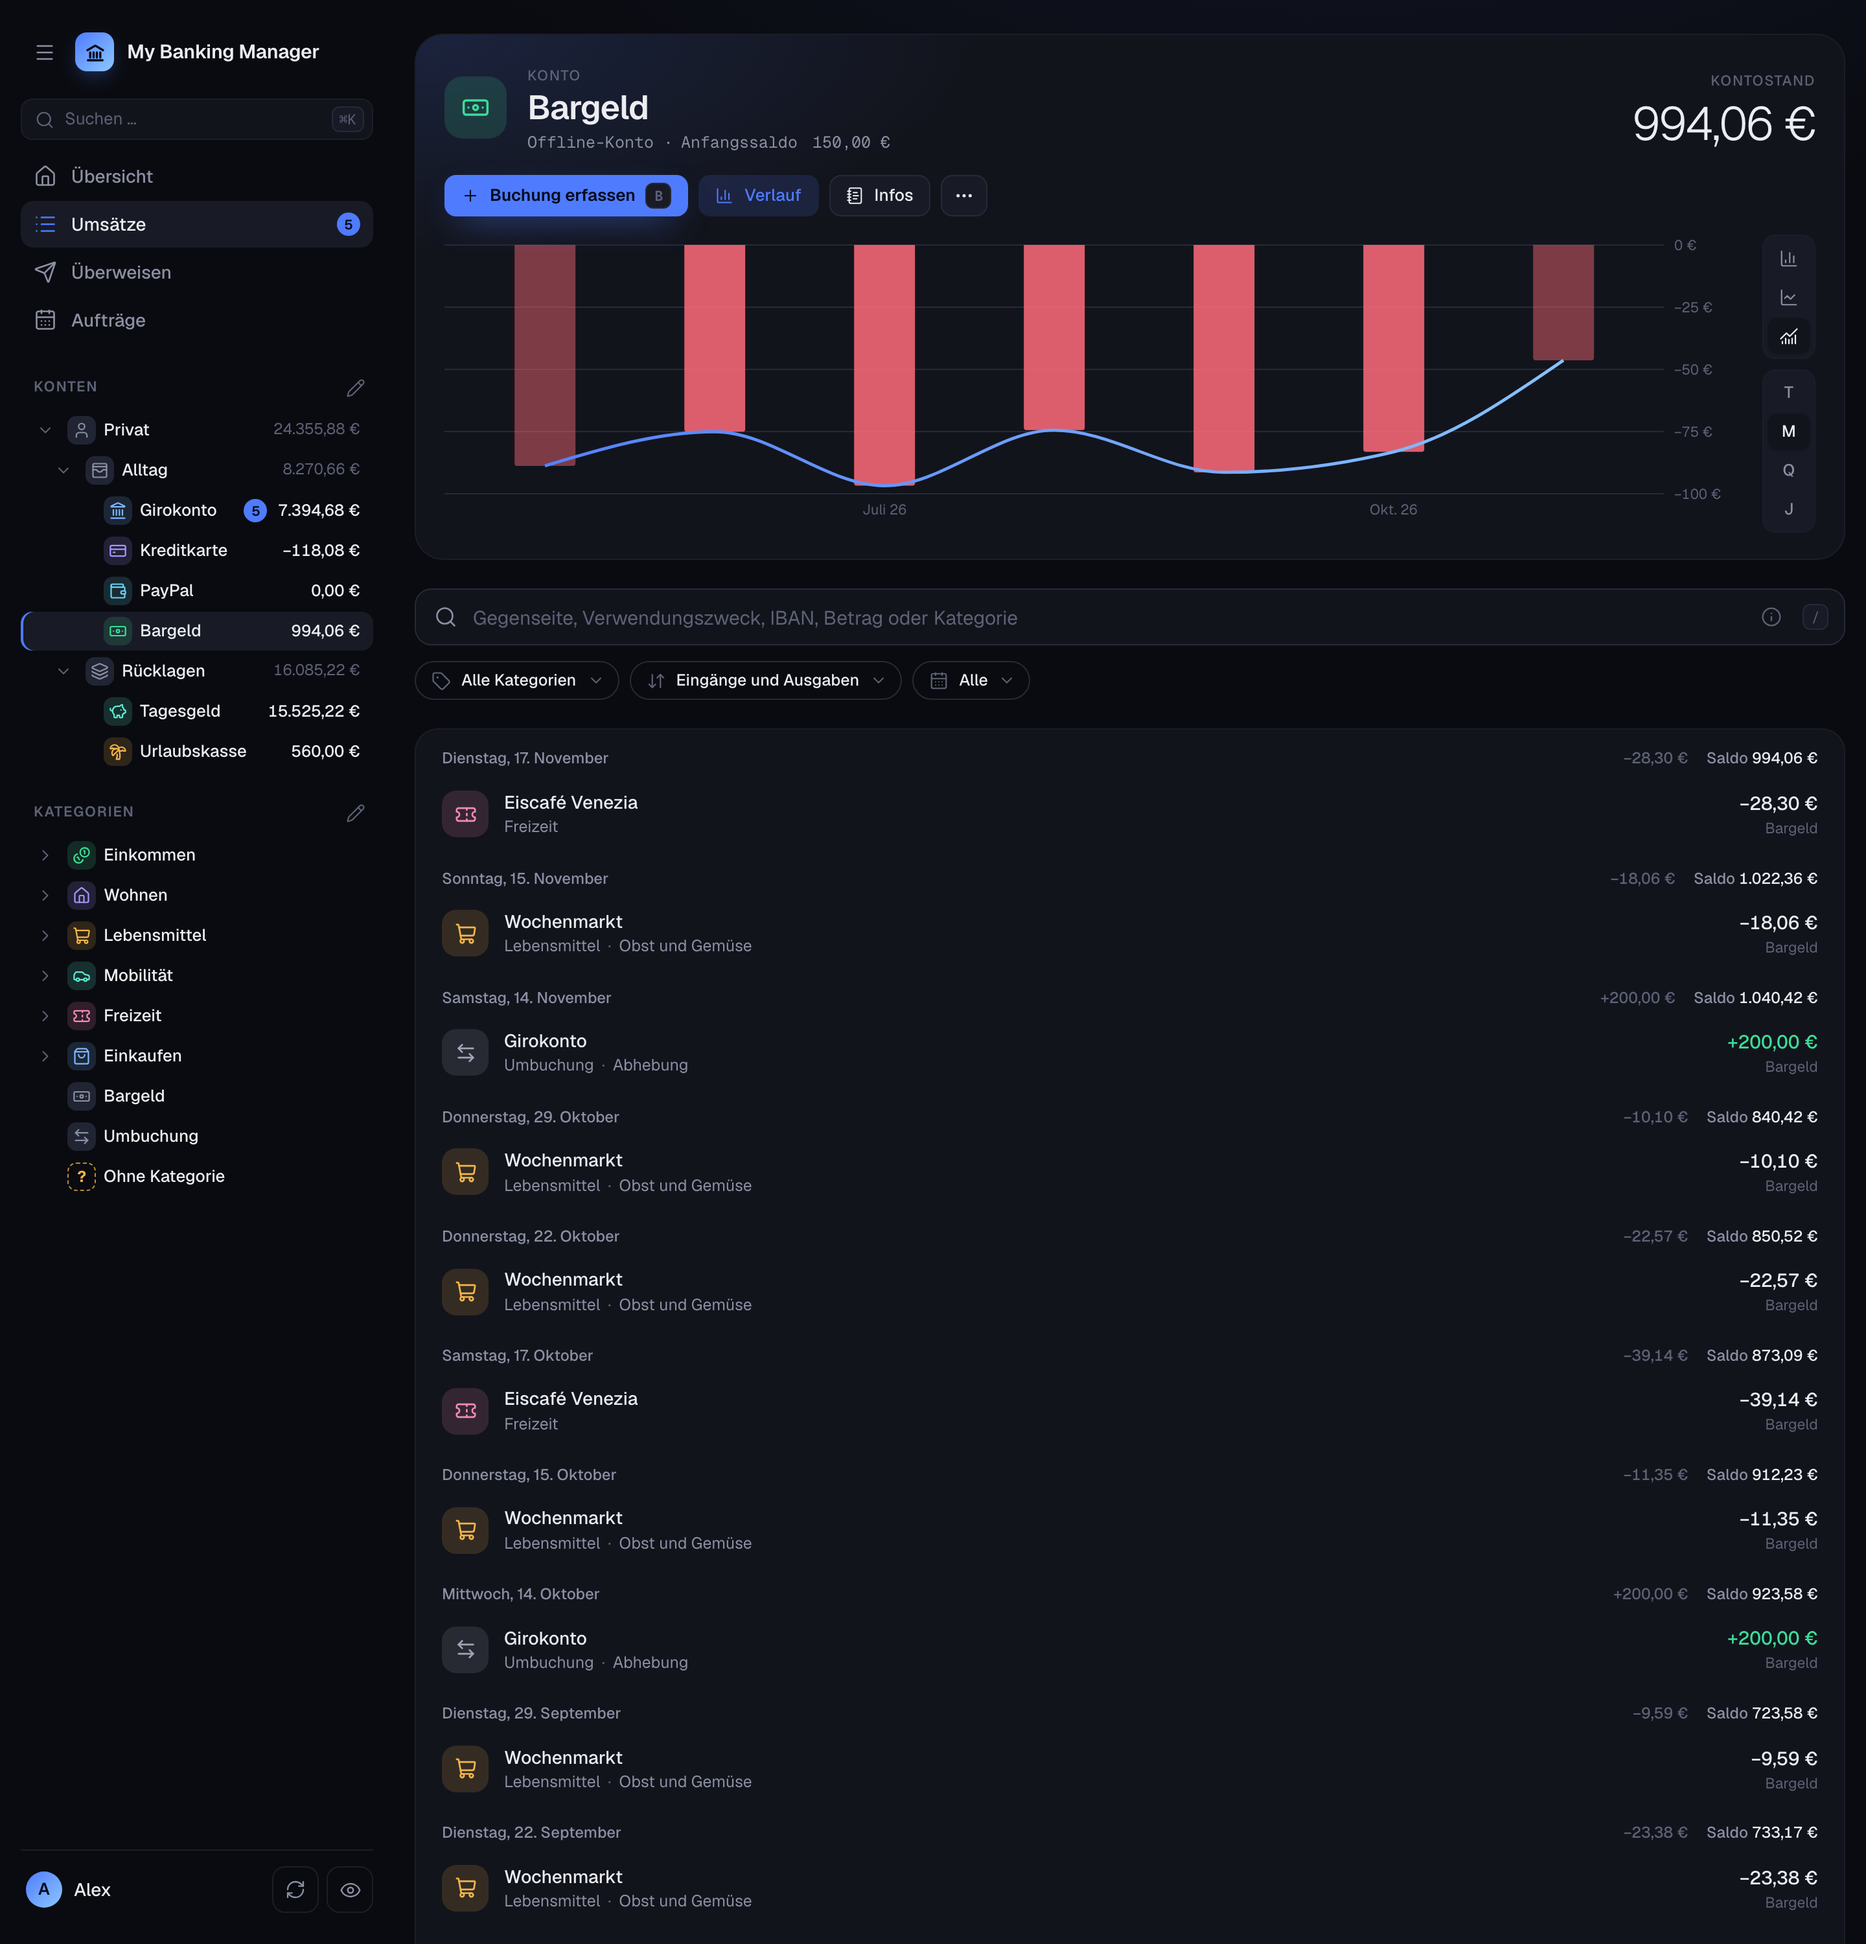
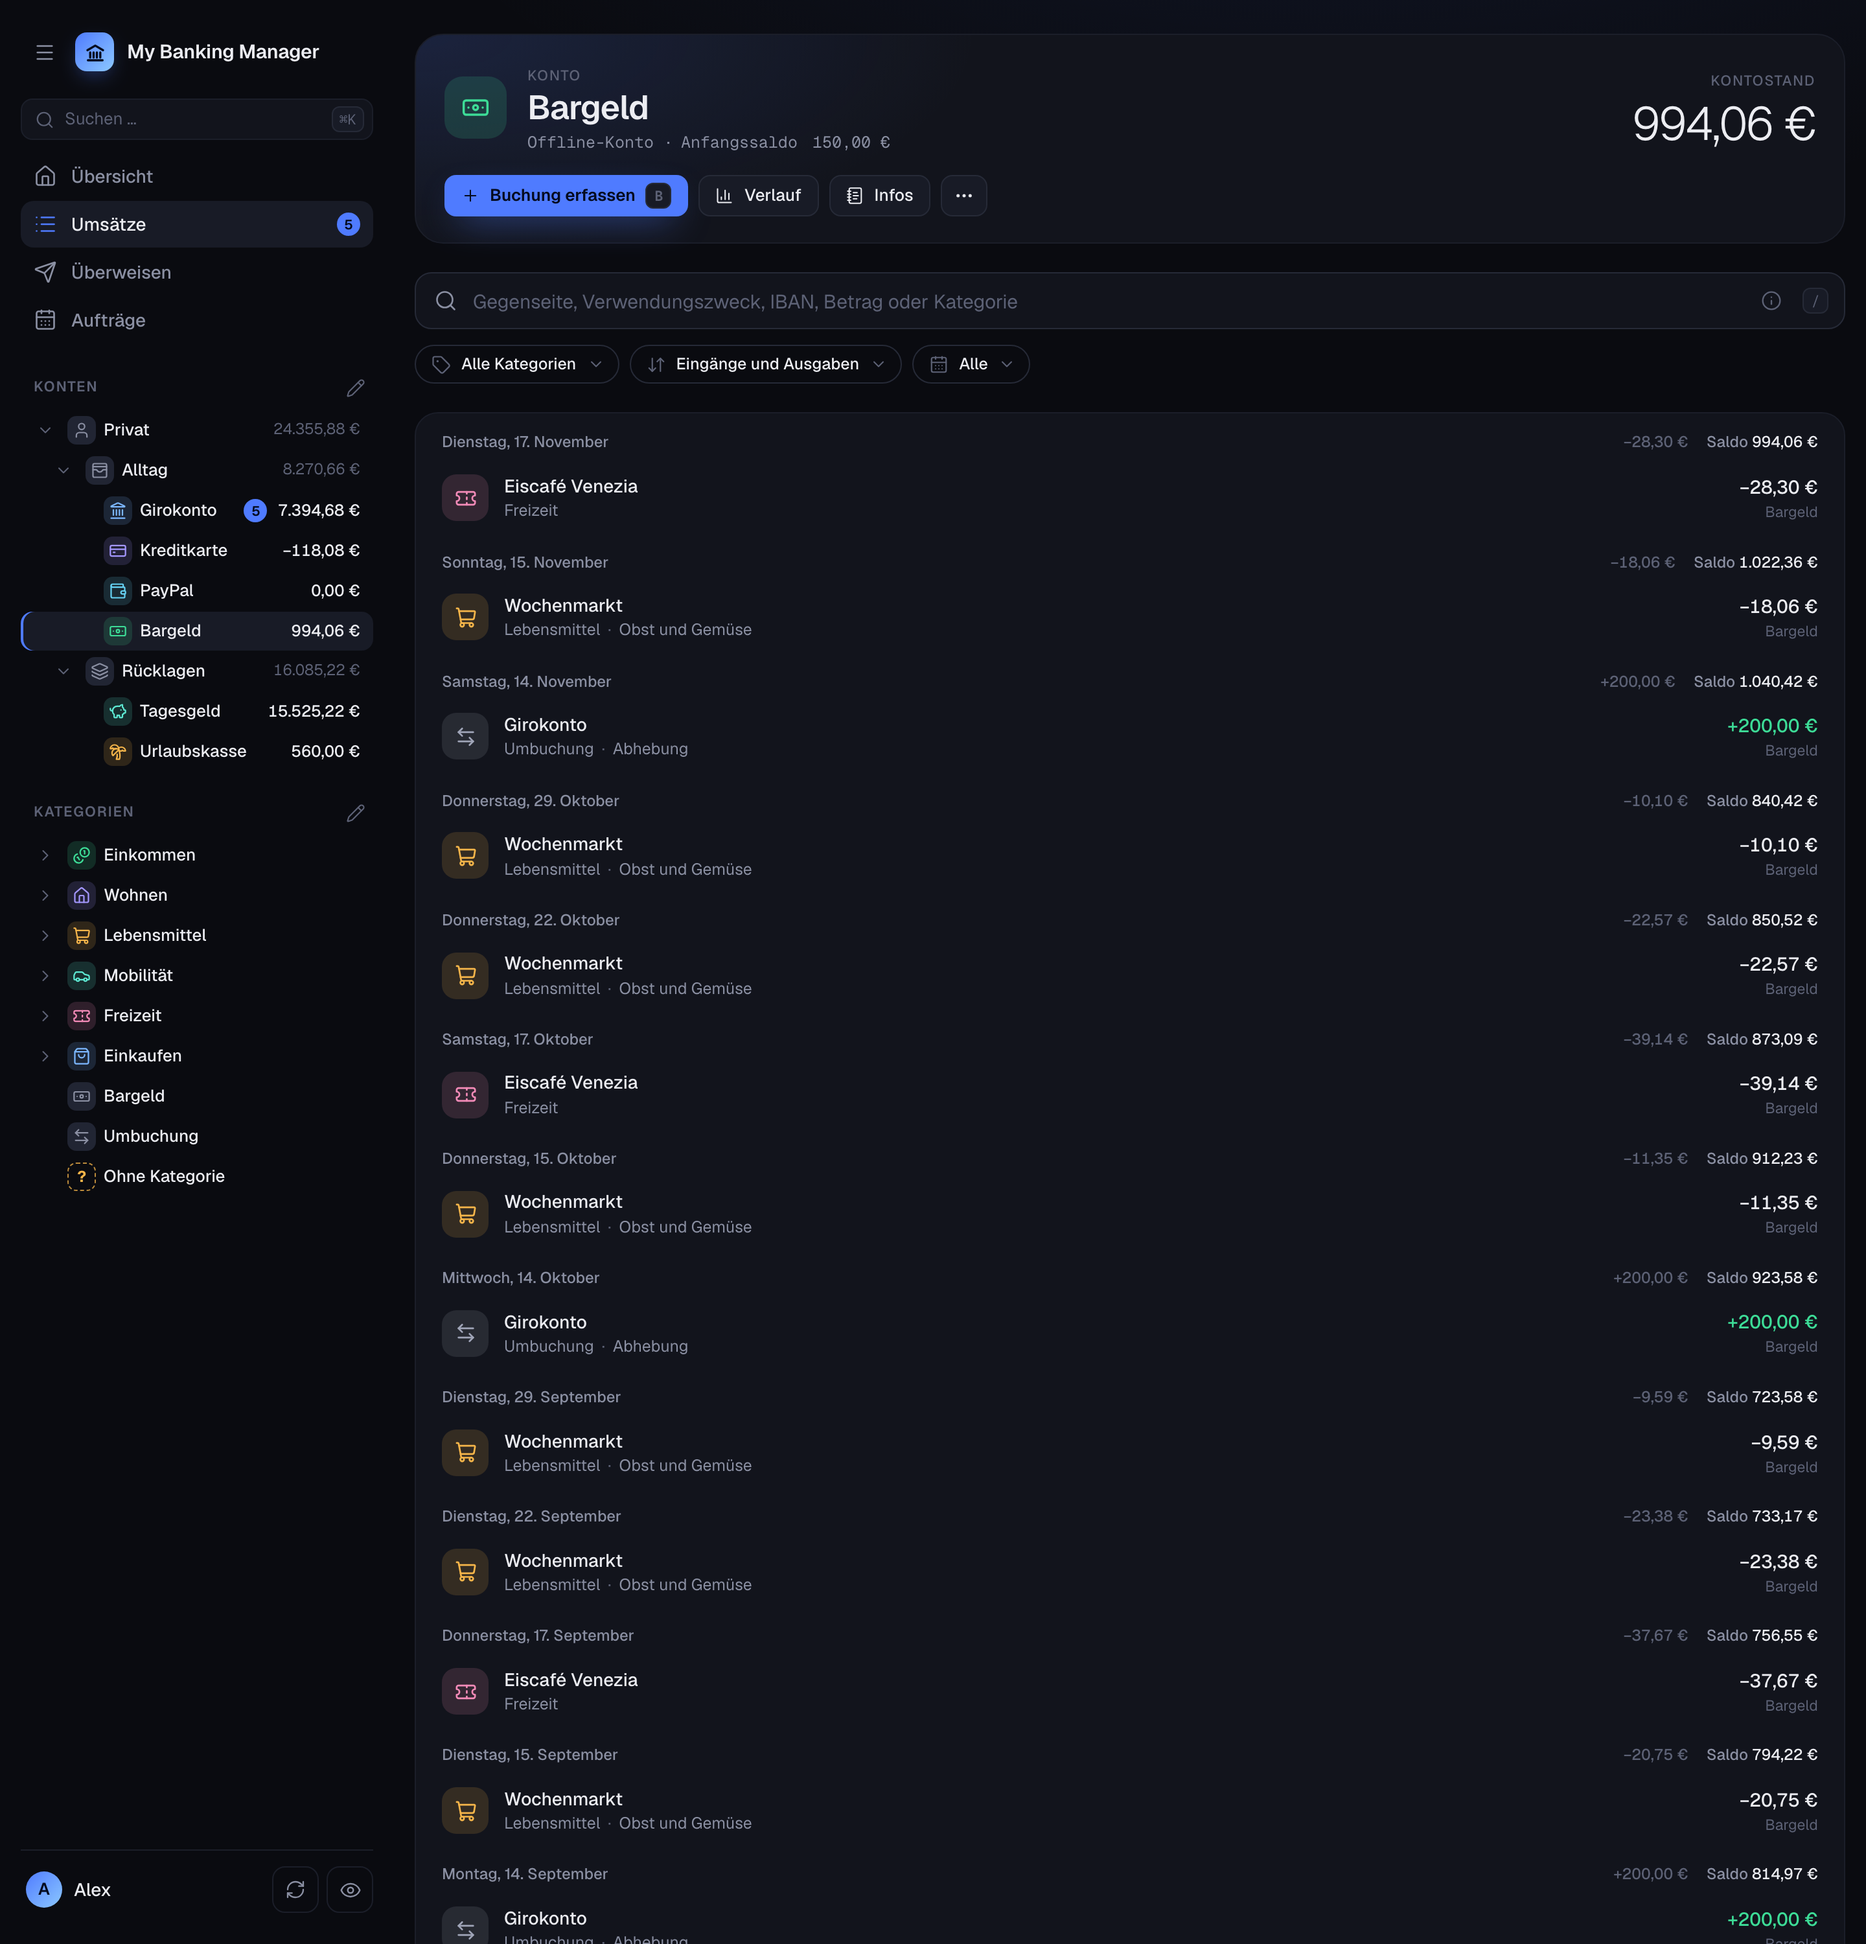
fix(screenshots): jede Aufnahme in eigenem Browser-Kontext
Alle Aufnahmen teilten sich bisher einen Kontext und damit den localStorage.
Den „Verlauf“, den umsaetze-verlauf einschaltet, schaltete der Klick in
kategorien wieder aus; der Lauf brach dort ab. paypal zeigte so den Verlauf,
ohne ihn zu verlangen. Die Bilder danach sind neu aufgenommen.

diff --git a/scripts/screenshots/capture.ts b/scripts/screenshots/capture.ts
@@ -17,7 +17,7 @@ import path from "node:path";
 import fs from "node:fs";
 import { execFileSync } from "node:child_process";
 import { fileURLToPath } from "node:url";
-import { chromium, type BrowserContext, type Page } from "playwright";
+import { chromium, type Browser, type Page } from "playwright";
 import { routes, type RouteDef } from "@mbm/shared";
 import { serve } from "./serve.js";
 import * as fx from "./fixtures.js";
@@ -337,7 +337,21 @@ async function fitToContent(page: Page): Promise<void> {
     await page.waitForTimeout(300);
 }
 
-async function capture(context: BrowserContext, origin: string, shot: Shot, theme: Theme): Promise<void> {
+/**
+ * Each shot in a browser of its own: settings the app keeps in localStorage (such as "Verlauf")
+ * would otherwise carry over from one shot to the next and make it depend on the order.
+ */
+async function capture(browser: Browser, origin: string, shot: Shot, theme: Theme): Promise<void> {
+    const phone = !!shot.phone;
+    const context = await browser.newContext({
+        viewport: phone ? PHONE : { width: WIDTH, height: START_HEIGHT },
+        deviceScaleFactor: SCALE,
+        isMobile: phone,
+        hasTouch: phone,
+        locale: "de-DE",
+        timezoneId: fx.TIMEZONE,
+        reducedMotion: "reduce",
+    });
     const page = await context.newPage();
     reportPageErrors(page);
     await page.clock.setFixedTime(fx.FIXED_NOW);
@@ -357,7 +371,7 @@ async function capture(context: BrowserContext, origin: string, shot: Shot, them
     await page.screenshot({ path: file, animations: "disabled" });
     const { width, height } = page.viewportSize()!;
     console.log(`  ✓ ${path.relative(REPO, file)}  (${width}x${height})`);
-    await page.close();
+    await context.close();
 }
 
 async function main(): Promise<void> {
@@ -376,19 +390,9 @@ async function main(): Promise<void> {
     const browser = await chromium.launch();
     try {
         for (const phone of [false, true]) {
-            const context = await browser.newContext({
-                viewport: phone ? PHONE : { width: WIDTH, height: START_HEIGHT },
-                deviceScaleFactor: SCALE,
-                isMobile: phone,
-                hasTouch: phone,
-                locale: "de-DE",
-                timezoneId: fx.TIMEZONE,
-                reducedMotion: "reduce",
-            });
             for (const shot of SHOTS.filter((s) => !!s.phone === phone && (only.length === 0 || only.includes(s.name)))) {
-                for (const theme of shot.themes ?? (["light", "dark"] as Theme[])) await capture(context, site.origin, shot, theme);
+                for (const theme of shot.themes ?? (["light", "dark"] as Theme[])) await capture(browser, site.origin, shot, theme);
             }
-            await context.close();
         }
     } finally {
         await browser.close();
